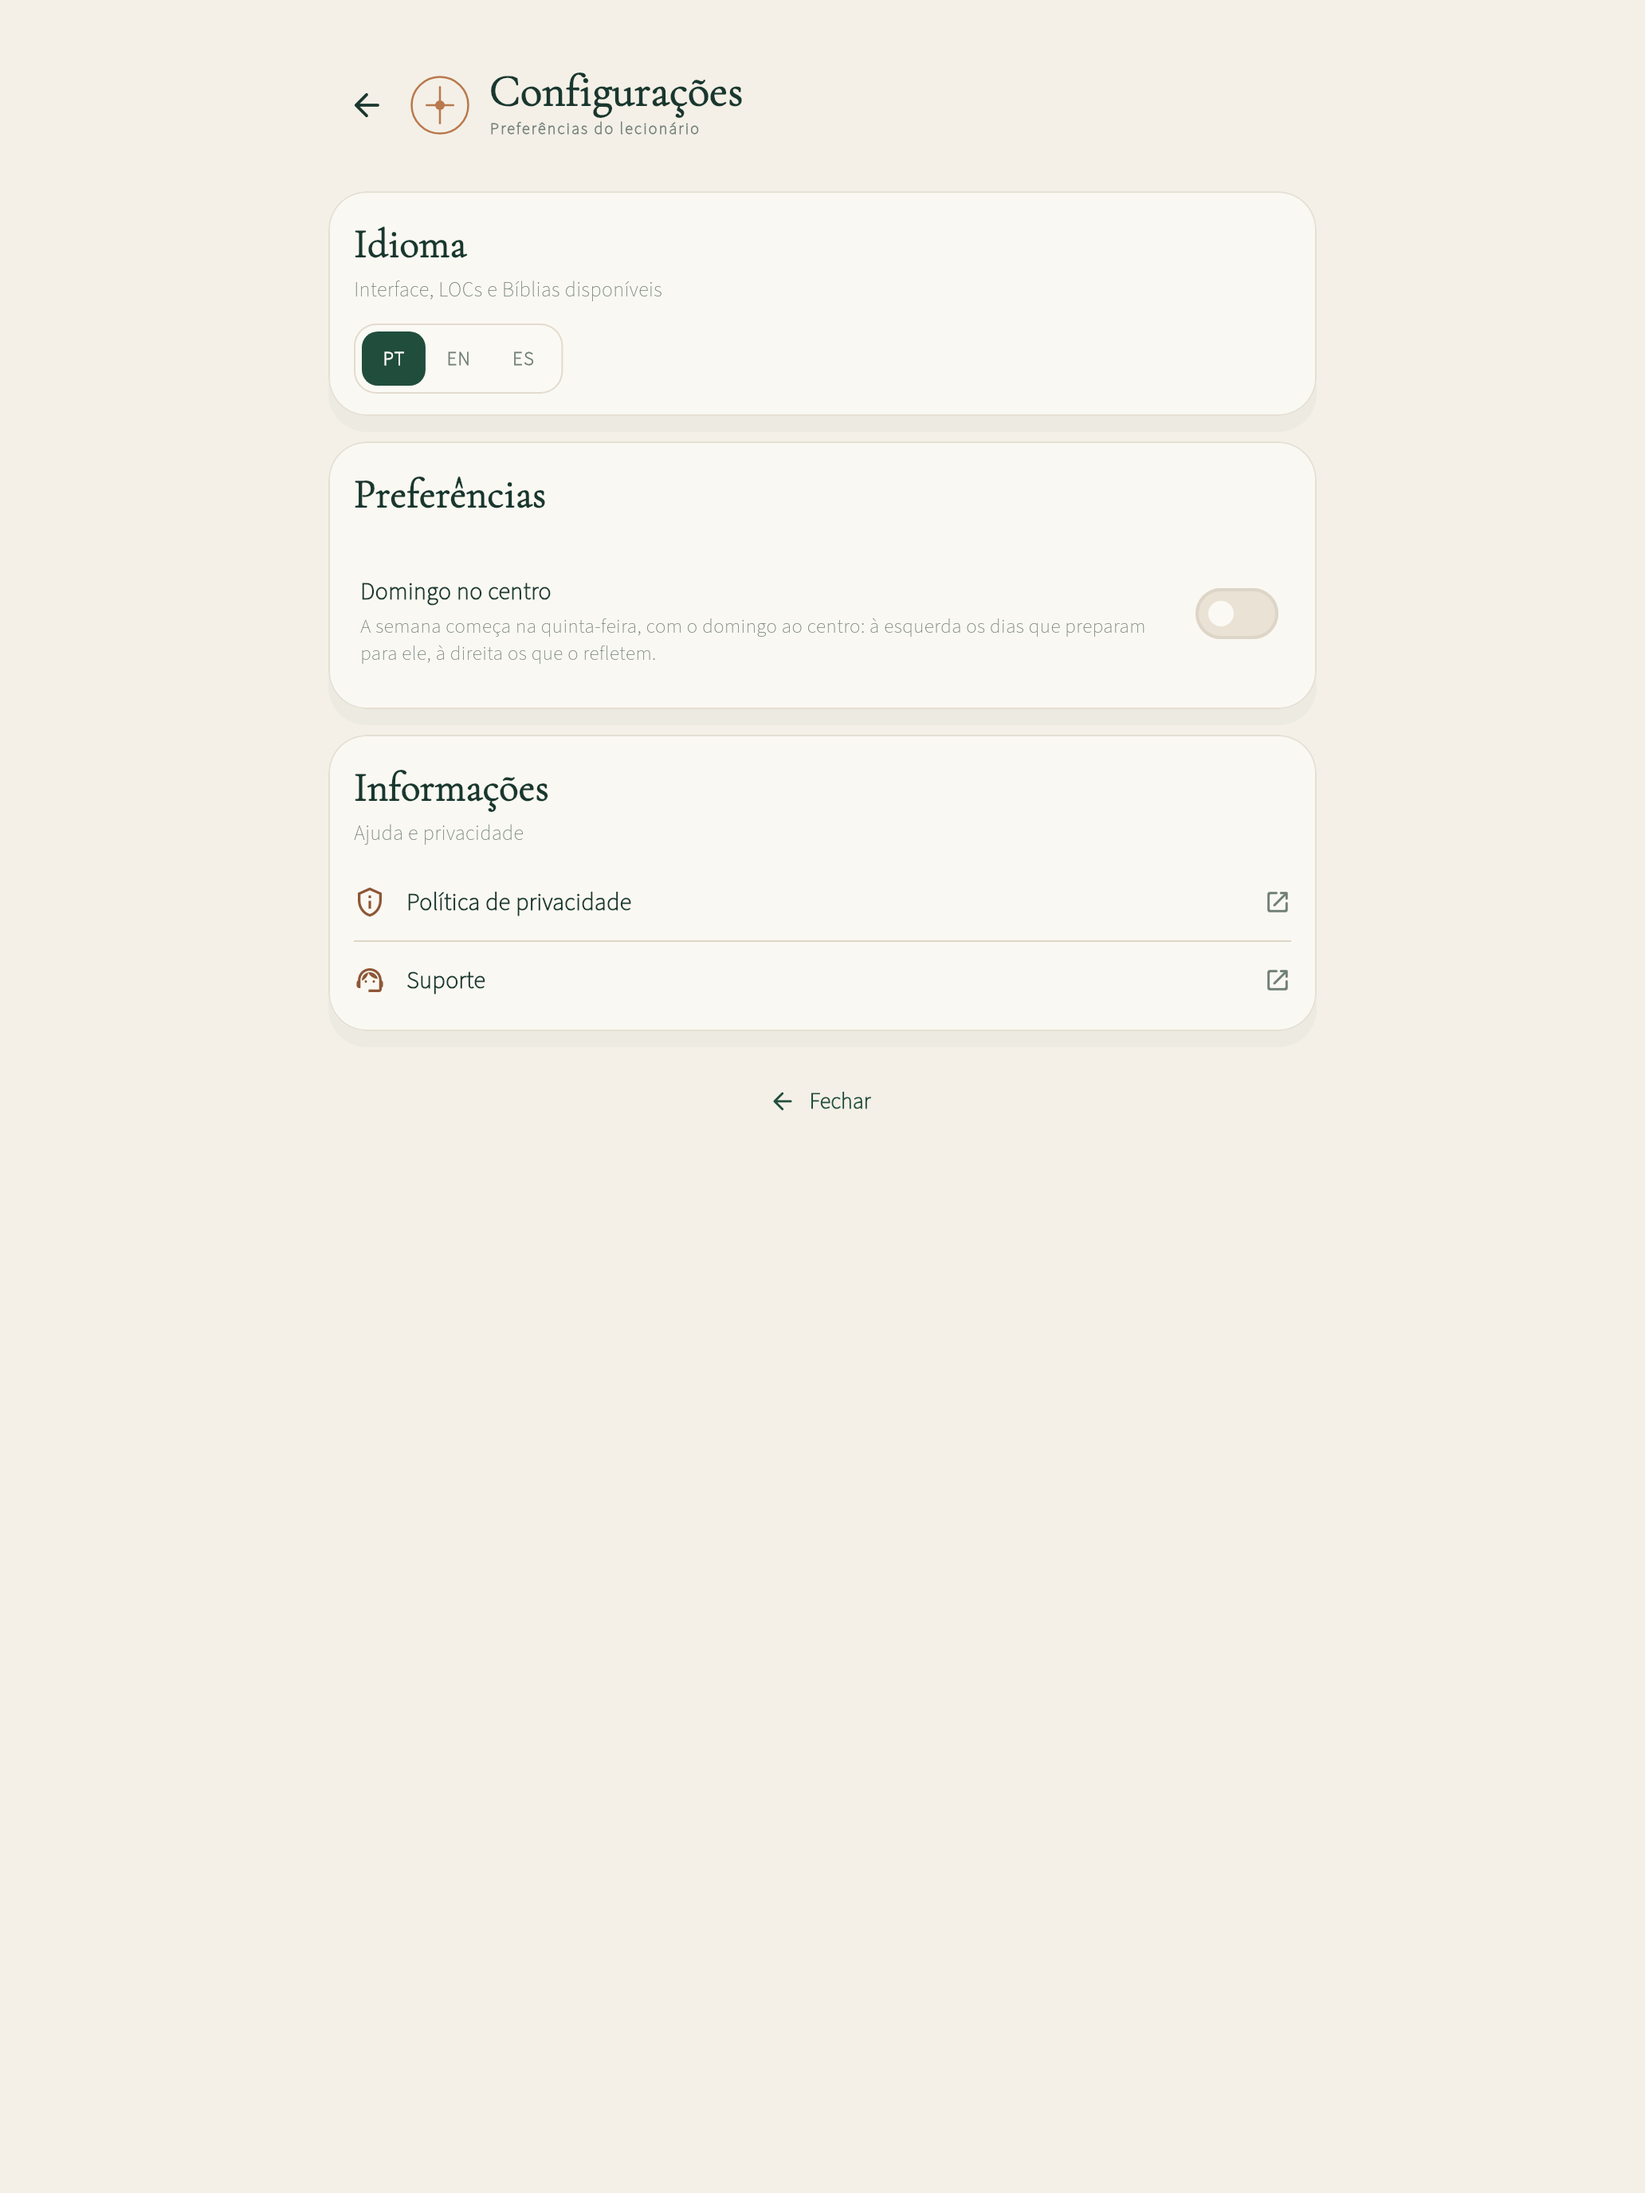
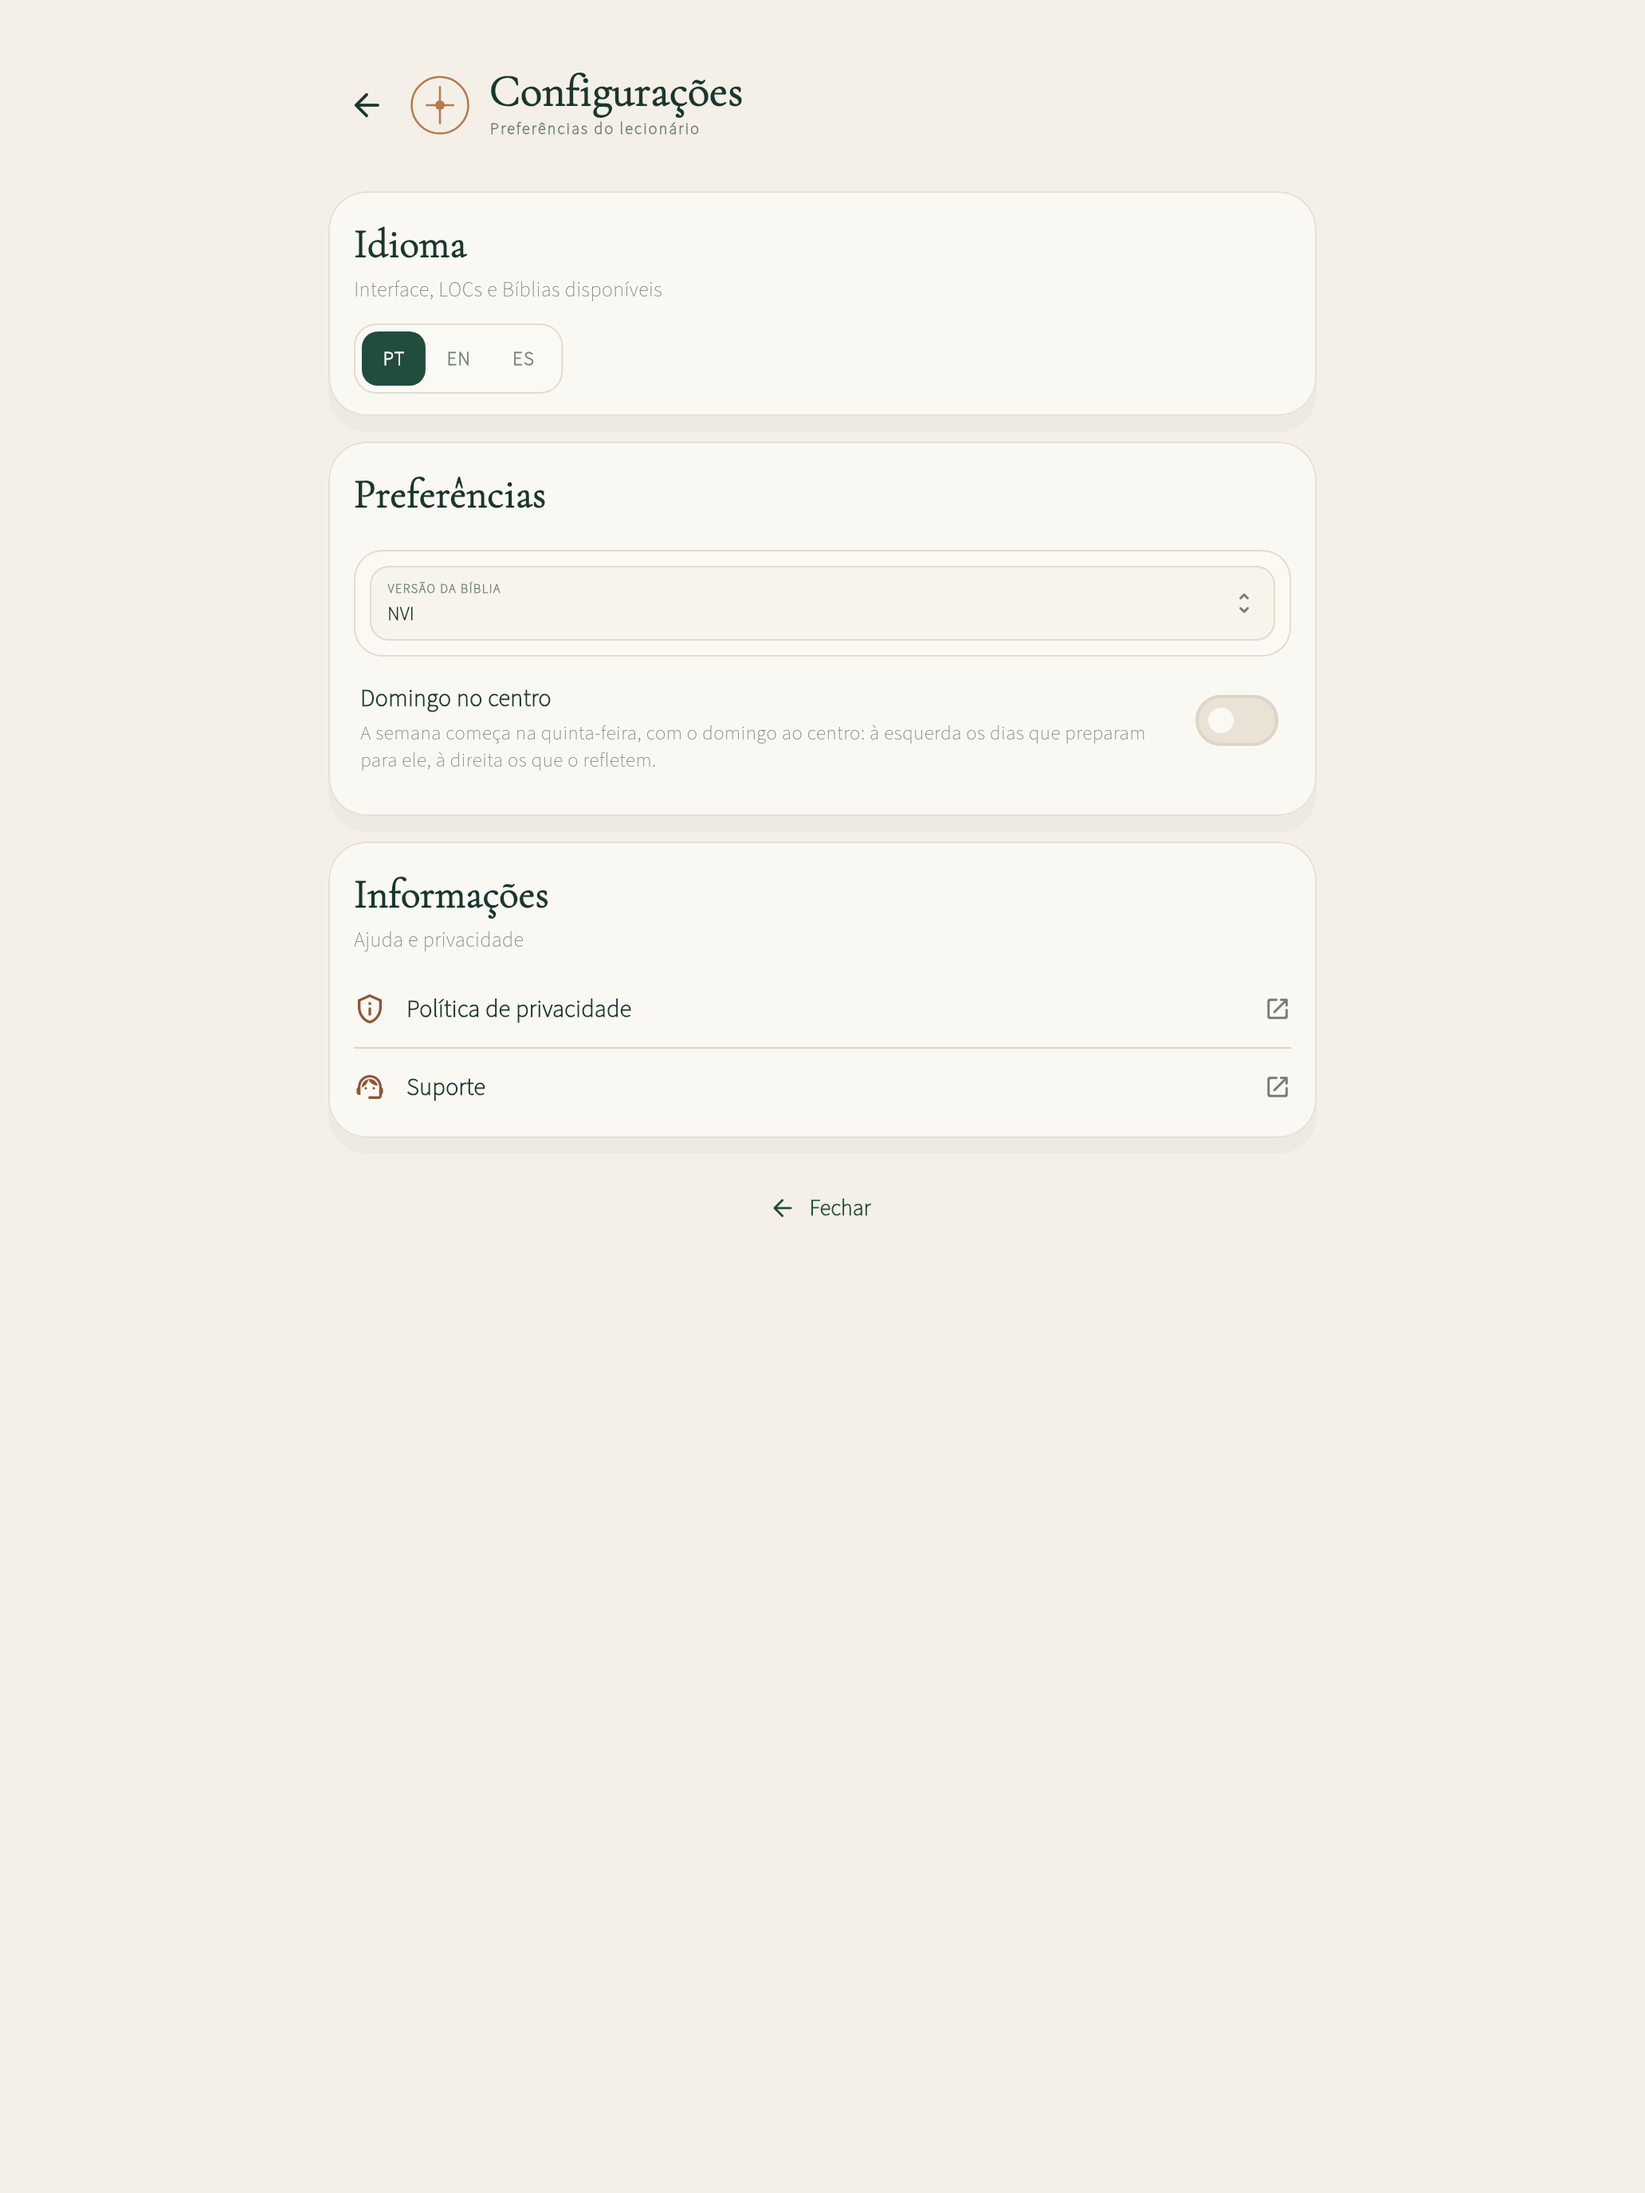
fix: ask for the Bible list the way the app does
The render script asked /bible_versions for `pt`, while the app asks for the
prayer book's own language tag, `pt-BR`. The wrong tag answers 200 with an
empty list, so the Bible version preference vanished from the Portuguese
settings screenshot without anything failing. It now reads the tag from the
book in prayer_books.json, as the app does.

The capture itself refuses an empty list outright rather than rendering a
screen with a control missing, which is how this got through.

Claude-Session: https://claude.ai/code/session_018Eds64zHUUhfzdjngxUsJB

Changed region(s): [[0.2171, 0.25, 0.4031, 0.5], [0.7132, 0.3125, 0.7752, 0.3438], [0.7442, 0.25, 0.7752, 0.2812]]

diff --git a/test/store_capture_test.dart b/test/store_capture_test.dart
@@ -375,30 +375,37 @@ class _CapturedApi implements LectionaryDataSource {
   dynamic _read(String name) =>
       jsonDecode(File('${fixtures.path}/$name.json').readAsStringSync());
 
-  @override
-  Future<List<PrayerBook>> getPrayerBooks() async {
-    final payload = _read('prayer_books');
+  /// A list that came back empty is a fixture fetched with the wrong query,
+  /// not an empty lectionary. Left alone it renders a screenshot missing
+  /// whatever that list feeds, which is the kind of thing nobody spots until
+  /// it is on the store.
+  List<Map<String, dynamic>> _readList(String name) {
+    final payload = _read(name);
     final values = payload is Map ? payload['data'] : payload;
-    return (values as List)
+    final entries = (values as List)
         .whereType<Map>()
-        .map((value) => PrayerBook.fromJson(Map<String, dynamic>.from(value)))
+        .map((value) => Map<String, dynamic>.from(value))
         .toList();
+    if (entries.isEmpty) {
+      throw StateError('$name.json is empty — refetch the fixtures');
+    }
+    return entries;
   }
+
+  @override
+  Future<List<PrayerBook>> getPrayerBooks() async =>
+      _readList('prayer_books').map(PrayerBook.fromJson).toList();
 
   @override
   Future<List<ReadingTypeOption>> getReadingTypeOptions(String code) async =>
       const [];
 
   @override
-  Future<List<BibleVersion>> getBibleVersions({String? language}) async {
-    final payload = _read('bibles-${this.language.code}');
-    final values = payload is Map ? payload['data'] : payload;
-    return (values as List)
-        .whereType<Map>()
-        .map((value) => BibleVersion.fromJson(Map<String, dynamic>.from(value)))
-        .where((version) => version.code.isNotEmpty)
-        .toList();
-  }
+  Future<List<BibleVersion>> getBibleVersions({String? language}) async =>
+      _readList('bibles-${this.language.code}')
+          .map(BibleVersion.fromJson)
+          .where((version) => version.code.isNotEmpty)
+          .toList();
 
   @override
   Future<List<CalendarDay>> getCalendarMonth(
@@ -406,14 +413,8 @@ class _CapturedApi implements LectionaryDataSource {
     String code, {
     String? readingType,
     String? bibleVersion,
-  }) async {
-    final payload = _read('month-${language.code}');
-    final values = payload is Map ? payload['data'] : payload;
-    return (values as List)
-        .whereType<Map>()
-        .map((value) => CalendarDay.fromJson(Map<String, dynamic>.from(value)))
-        .toList();
-  }
+  }) async =>
+      _readList('month-${language.code}').map(CalendarDay.fromJson).toList();
 
   @override
   Future<LectionaryDay> getDay(
